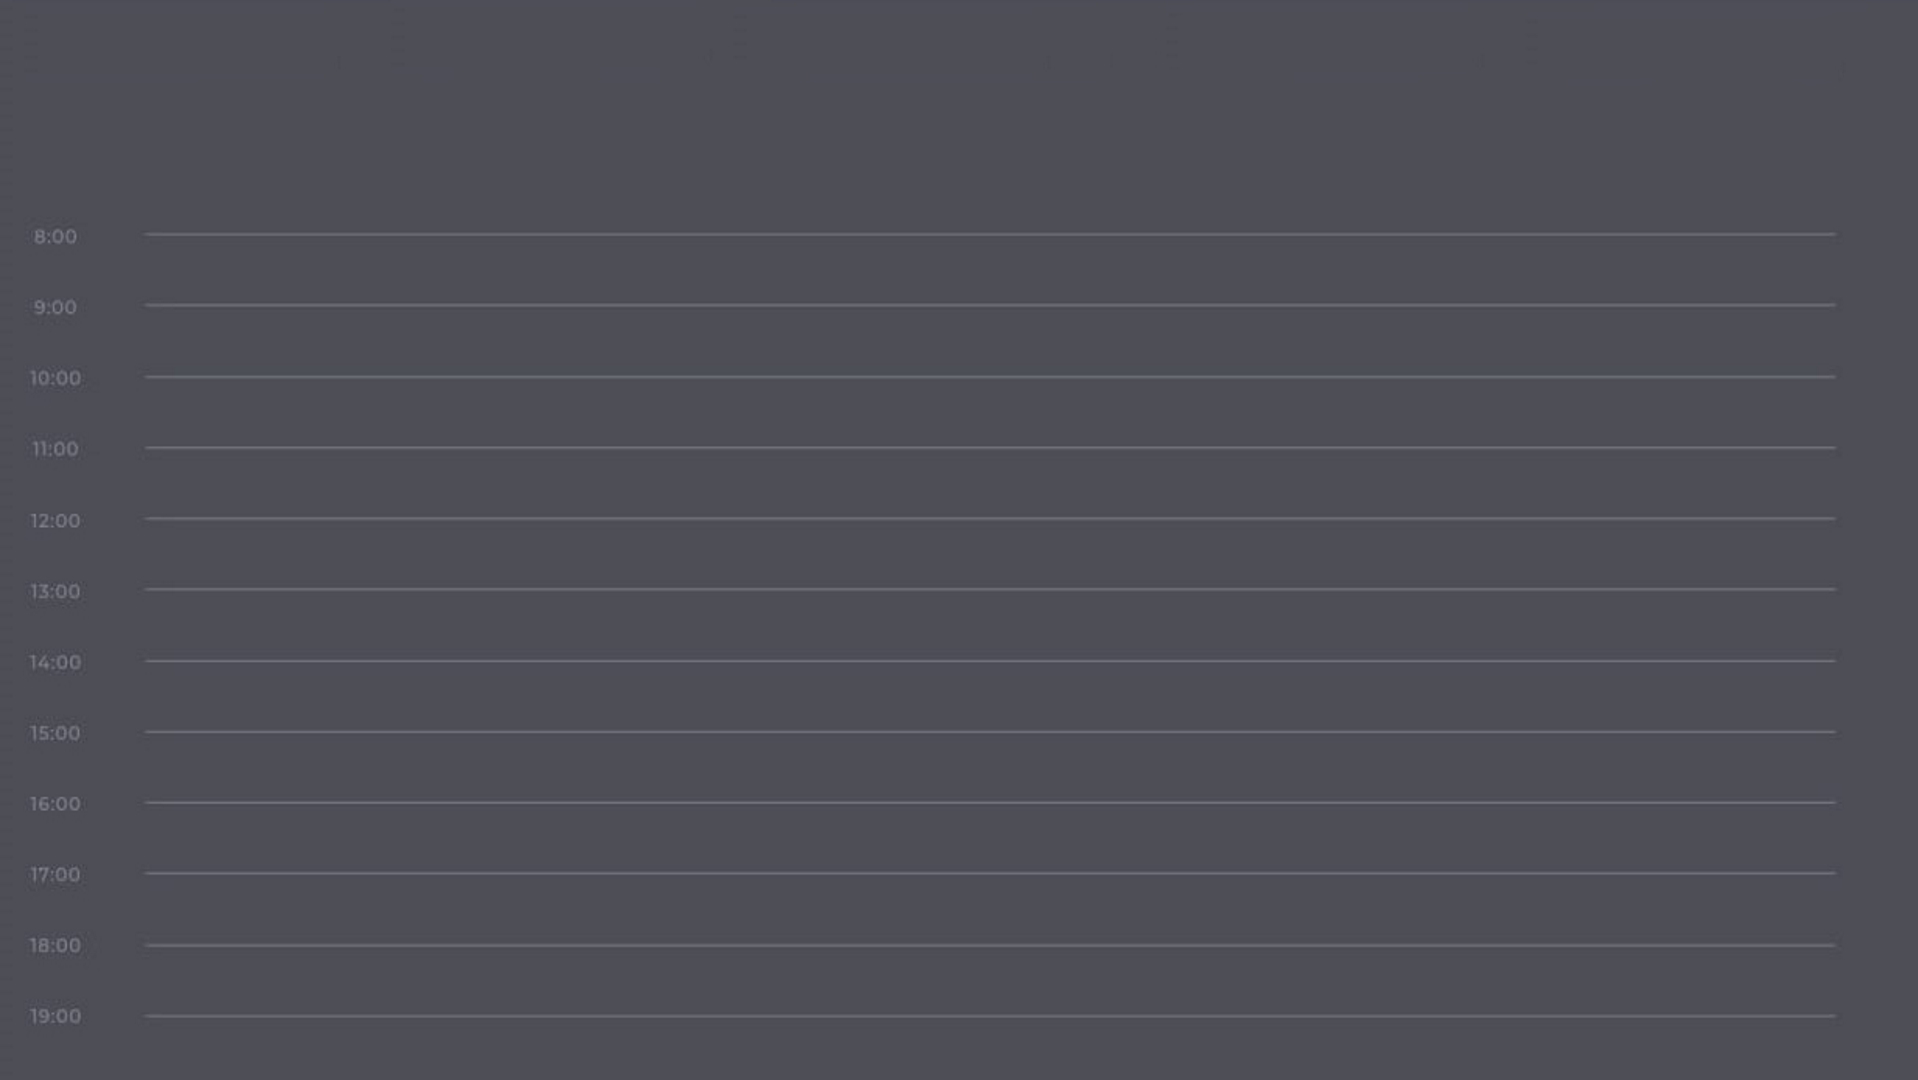
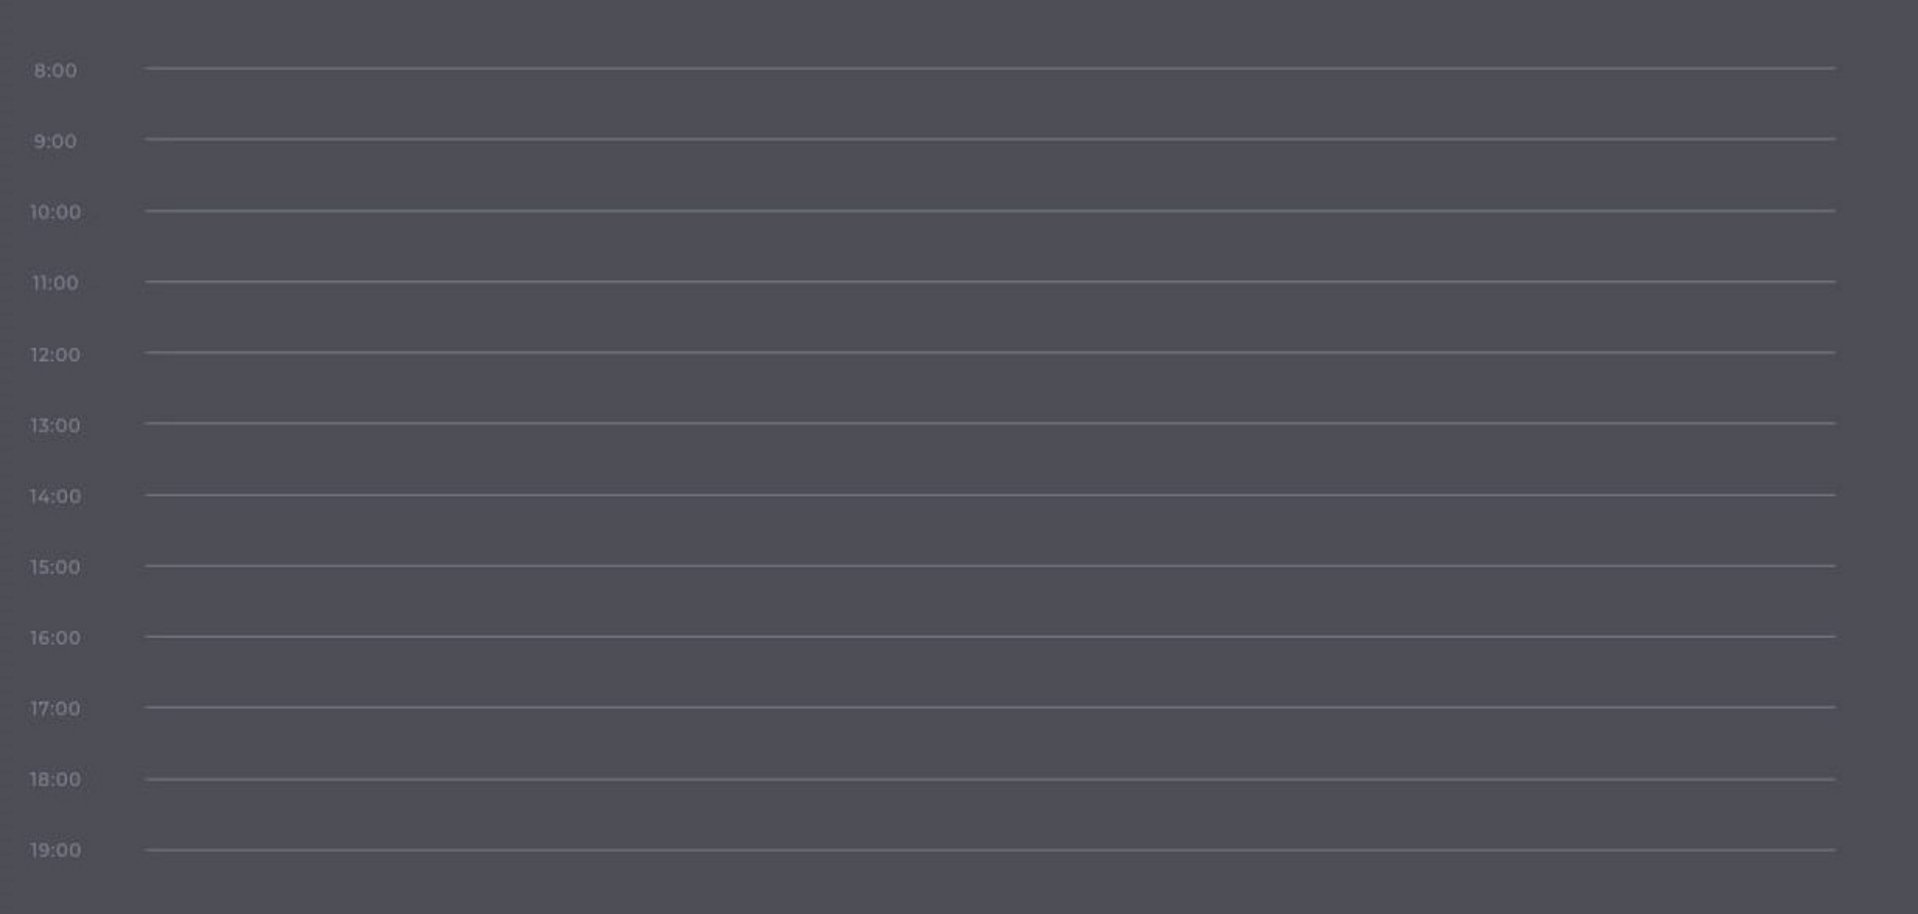
stage-1

diff --git a/crmsystem/templates/crmsystem/home.html b/crmsystem/templates/crmsystem/home.html
@@ -84,15 +84,75 @@
             </a>
            </ul>
      </div>
+
+
+
      <div class="home-page">
-         <span class="text">Преподаватель</span>
-         <span class="text">Группа</span>
-         <span class="text">Аудитория</span>
-         <span class="text">Формат группы</span>
-         <span class="text">Тип занятия</span>
+         <div class="home-page-content">
+            <a href="#"><span class="text">Преподаватель</span></a>
+         </div>
+         <div class="home-page-content">
+            <a href="#"><span class="text">Группа</span></a>
+         </div>
+         <div class="home-page-content">
+            <a href="#"><span class="text">Аудитория</span></a>
+         </div>
+         <div class="home-page-content">
+            <a href="#"><span class="text">Формат группы</span></a>
+         </div>
+         <div class="home-page-content">
+            <a href="#"><span class="text">Тип занятия</span></a>
+         </div>
+    </div>
+     <div class="home-body1">
+         <div class="home-page-content">
+            <span class="text">ПН</span>
+         </div>
+         <div class="home-page-content">
+            <span class="text">ВТ</span>
+         </div>
+         <div class="home-page-content">
+            <span class="text">СР</span>
+         </div>
+         <div class="home-page-content">
+            <span class="text">ЧТ</span>
+         </div>
+         <div class="home-page-content">
+            <span class="text">ПТ</span>
+         </div>
+         <div class="home-page-content">
+            <span class="text">СБ</span>
+         </div>
+         <div class="home-page-content">
+            <span class="text">   ВС</span>
+         </div>
+     </div>
+      <div class="home-body2">
+         <div class="home-page-content">
+            <span class="text">11</span>
+         </div>
+         <div class="home-page-content">
+            <span class="text">12</span>
+         </div>
+         <div class="home-page-content">
+            <span class="text">13</span>
+         </div>
+         <div class="home-page-content">
+            <span class="text">14</span>
+         </div>
+         <div class="home-page-content">
+            <span class="text">15</span>
+         </div>
+         <div class="home-page-content">
+            <span class="text">16</span>
+         </div>
+         <div class="home-page-content">
+            <span class="text">17</span>
+         </div>
+     </div>
+     <div class="home-body3">
      </div>
   </section>
-
   <script>
 
   let arrow = document.querySelectorAll(".arrow");

diff --git a/crmsystem/static/css/style.css b/crmsystem/static/css/style.css
@@ -102,7 +102,7 @@
     font-size: 18px;
     font-weight: 400;
     color: #fff;
-    background: #7F838E;
+    background: none;
 }
 .sidebar.close .nav-links li a .link_name{
     opacity: 0;
@@ -180,7 +180,7 @@
 .home-section{
     position: relative;
     background: #26272B;
-    height: 100vh;
+    height: 10%;
     left: 260px;
     width: calc(100% - 260px);
     transition: all 0.5s ease;
@@ -197,15 +197,56 @@
     align-items: center;
 }
 .home-section .home-page{
-    padding: 0px 2vh 0px 2vh;
+    padding: 5px 0vh 30px 0%;
     height: 100%;
-    width: 60px
+    width: 100%;
     display: flex;
     align-items: center;
-    color: #7F838E;
     background-color: #4E4E56;
 
 }
+.home-section .home-body1{
+    padding: 5px 0vh 5px 7%;
+    height: 100%;
+    width: 100%;
+    display: flex;
+    align-items: center;
+    background-color: #4E4E56;
+}
+.home-section .home-body2{
+    padding: 5px 0vh 5px 7%;
+    height: 100%;
+    width: 100%;
+    display: flex;
+    align-items: center;
+    background-color: #4E4E56;
+}
+.home-section .home-body3{
+    padding: 5px 0vh 5px 0%;
+    width: 100%;
+    height: 78vh;
+    background:
+    url("../images/intro.jpg") center
+    no-repeat;
+    -webkit-background-size: cover;
+    background-size: cover;
+}
+.home-section .home-page .home-page-content .text{
+    color:#7F838E;
+    font-size: 15px;
+    margin: 60px;
+}
+.home-section .home-body1 .home-page-content .text{
+    color:#7F838E;
+    font-size: 15px;
+    margin: 60px;
+}
+.home-section .home-body2 .home-page-content .text{
+    color:#7F838E;
+    font-size: 35px;
+    margin: 55px;
+}
+
 .home-section .home-content .bx-menu,
 .home-section .home-content .text{
     color: #7F838E;
